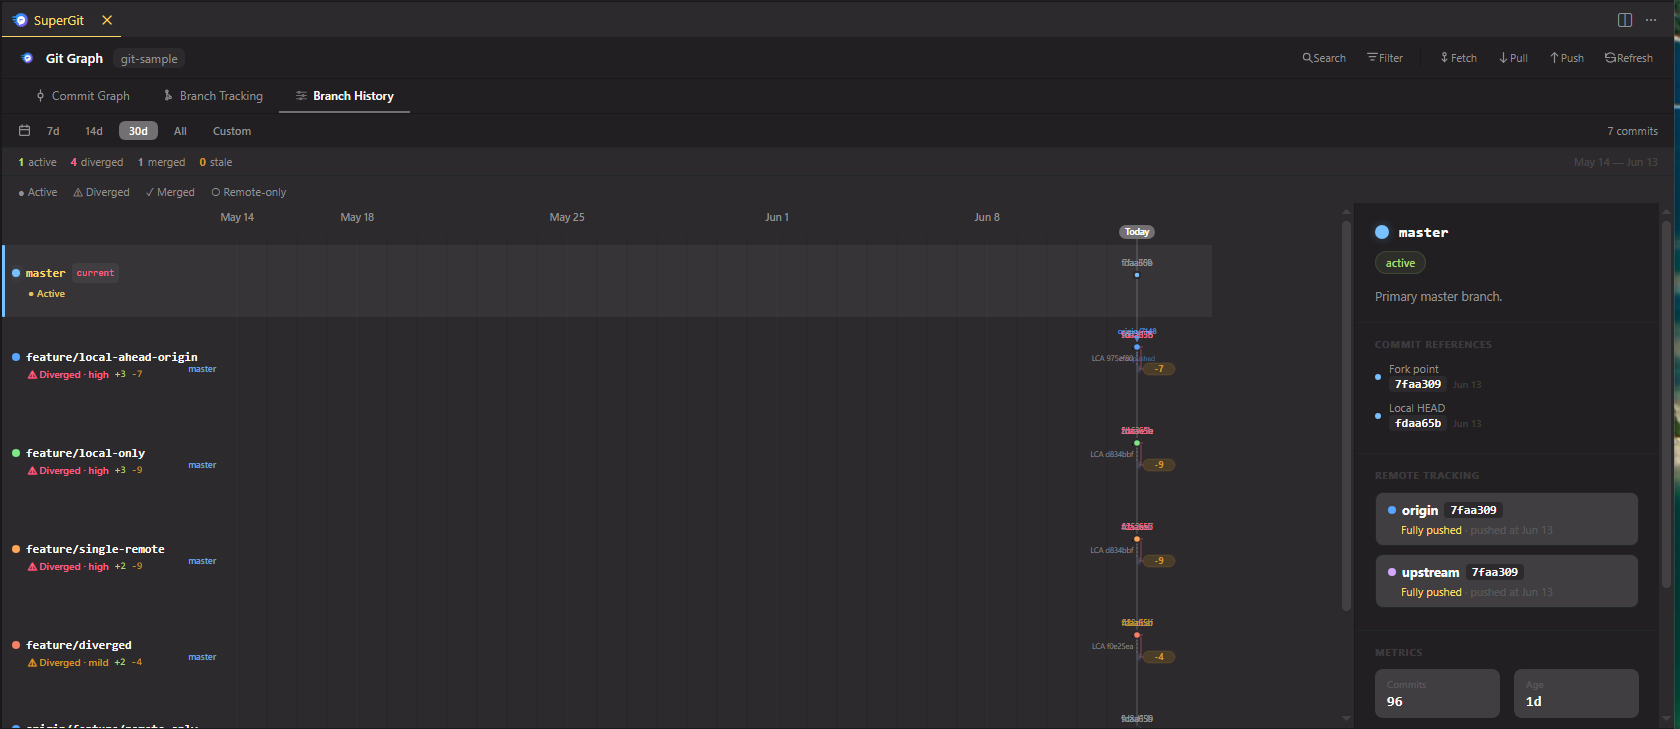
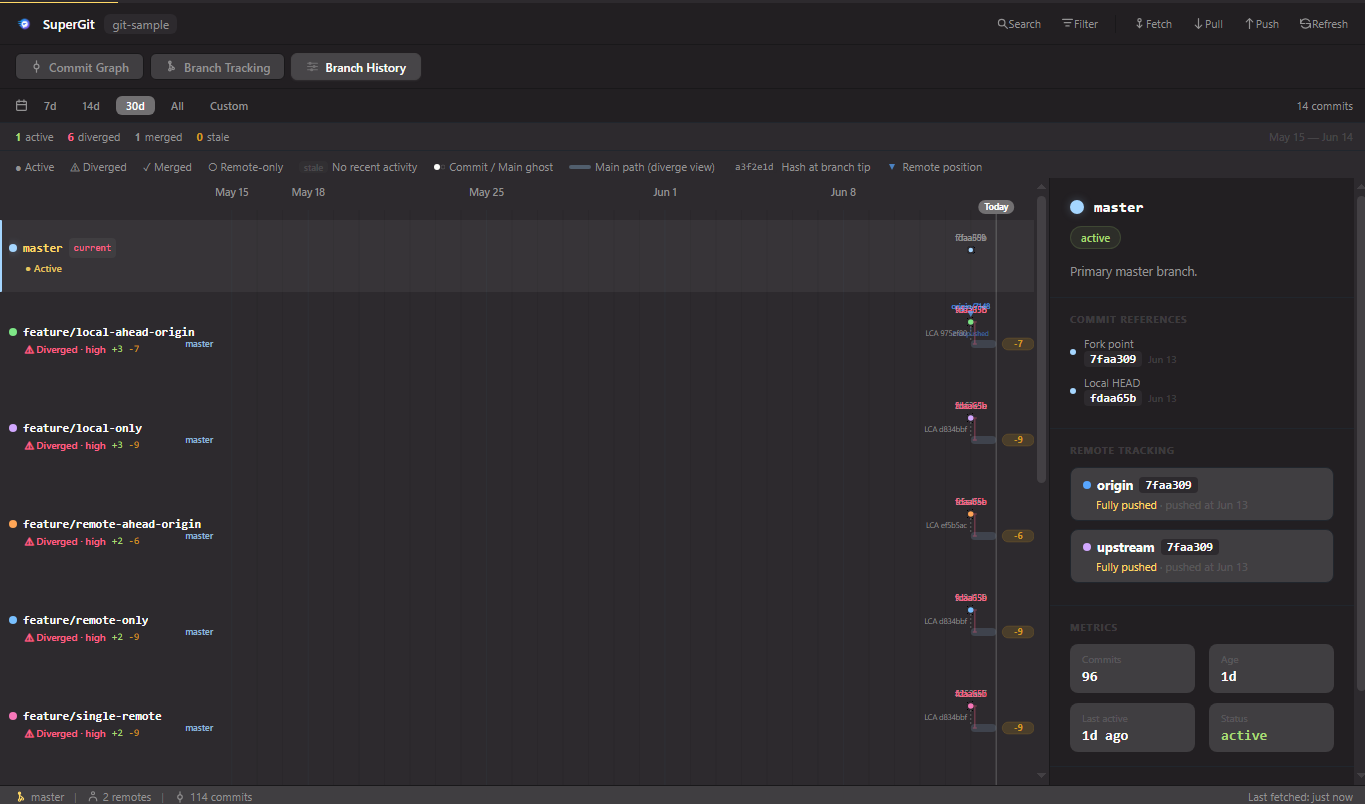
Add multi-remote QuickPick for set upstream and refresh screenshots.
Set upstream no longer uses manual remote/branch input; update README
captions, CHANGELOG, and feature PNGs for current UI.

diff --git a/src/test/unit/actions.test.ts b/src/test/unit/actions.test.ts
@@ -165,12 +165,12 @@ describe("executeBranchAction", () => {
       return ok("");
     });
     await executeBranchAction("/repo", "set-upstream");
-    expect(showInputBoxMock).toHaveBeenCalledWith(expect.objectContaining({ value: "origin/main" }));
+    expect(showInputBoxMock).not.toHaveBeenCalled();
+    expect(showQuickPickMock).not.toHaveBeenCalled();
     expect(runGitMock).toHaveBeenCalledWith(["branch", "--set-upstream-to", "origin/main", "main"], "/repo", { timeout: 120_000 });
   });
 
   it("pushes and sets upstream when the remote branch does not exist yet", async () => {
-    showInputBoxMock.mockResolvedValue("origin/feature/local-only");
     showWarningMessageMock.mockResolvedValue("Push and Set Upstream");
     runGitMock.mockImplementation(async (args) => {
       if (args[0] === "rev-parse" && args[1] === "--verify") {
@@ -182,11 +182,11 @@ describe("executeBranchAction", () => {
       return ok("");
     });
     await executeBranchAction("/repo", "set-upstream", "feature/local-only", "origin");
+    expect(showInputBoxMock).not.toHaveBeenCalled();
     expect(runGitMock).toHaveBeenCalledWith(["push", "-u", "origin", "feature/local-only"], "/repo", { timeout: 120_000 });
   });
 
   it("fetches and sets upstream when the remote branch exists but is not fetched locally", async () => {
-    showInputBoxMock.mockResolvedValue("origin/feature/x");
     showWarningMessageMock.mockResolvedValue("Fetch and Set Upstream");
     runGitMock.mockImplementation(async (args) => {
       if (args[0] === "rev-parse" && args[1] === "--verify") {
@@ -198,6 +198,7 @@ describe("executeBranchAction", () => {
       return ok("");
     });
     await executeBranchAction("/repo", "set-upstream", "feature/x", "origin");
+    expect(showInputBoxMock).not.toHaveBeenCalled();
     expect(runGitMock).toHaveBeenCalledWith(
       ["fetch", "origin", "refs/heads/feature/x:refs/remotes/origin/feature/x"],
       "/repo",
@@ -206,12 +207,11 @@ describe("executeBranchAction", () => {
     expect(runGitMock).toHaveBeenCalledWith(["branch", "--set-upstream-to", "origin/feature/x", "feature/x"], "/repo", { timeout: 120_000 });
   });
 
-  it("parses slash remotes when fetching and setting upstream", async () => {
+  it("supports slash remotes when fetching and setting upstream", async () => {
     getRemotesMock.mockResolvedValue([
       { name: "foo", url: "foo-url", colorIndex: 0 },
       { name: "foo/bar", url: "foo-bar-url", colorIndex: 1 }
     ]);
-    showInputBoxMock.mockResolvedValue("foo/bar/main");
     showWarningMessageMock.mockResolvedValue("Fetch and Set Upstream");
     runGitMock.mockImplementation(async (args) => {
       if (args[0] === "rev-parse" && args[1] === "--verify") {
@@ -224,6 +224,7 @@ describe("executeBranchAction", () => {
       return ok("");
     });
     await executeBranchAction("/repo", "set-upstream", "work", "foo/bar", "main");
+    expect(showInputBoxMock).not.toHaveBeenCalled();
     expect(runGitMock).toHaveBeenCalledWith(
       ["fetch", "foo/bar", "refs/heads/main:refs/remotes/foo/bar/main"],
       "/repo",
@@ -233,7 +234,6 @@ describe("executeBranchAction", () => {
   });
 
   it("uses explicit remote branch names when pushing and setting upstream", async () => {
-    showInputBoxMock.mockResolvedValue("origin/feature/a");
     showWarningMessageMock.mockResolvedValue("Push and Set Upstream");
     runGitMock.mockImplementation(async (args) => {
       if (args[0] === "rev-parse" && args[1] === "--verify") {
@@ -245,11 +245,58 @@ describe("executeBranchAction", () => {
       return ok("");
     });
     await executeBranchAction("/repo", "set-upstream", "work", "origin", "feature/a");
+    expect(showInputBoxMock).not.toHaveBeenCalled();
     expect(runGitMock).toHaveBeenCalledWith(["push", "-u", "origin", "work:feature/a"], "/repo", { timeout: 120_000 });
   });
 
-  it("cancels set upstream without input", async () => {
-    showInputBoxMock.mockResolvedValue(undefined);
+  it("shows QuickPick when setting upstream with multiple remotes and no remote param", async () => {
+    getRemotesMock.mockResolvedValue([
+      { name: "origin", url: "origin-url", colorIndex: 0 },
+      { name: "upstream", url: "upstream-url", colorIndex: 1 }
+    ]);
+    showQuickPickMock.mockResolvedValue({ label: "upstream", description: "upstream-url", remote: { name: "upstream", url: "upstream-url", colorIndex: 1 } });
+    showWarningMessageMock.mockResolvedValue("Push and Set Upstream");
+    runGitMock.mockImplementation(async (args) => {
+      if (args[0] === "rev-parse" && args[1] === "--verify") {
+        return fail("unknown ref");
+      }
+      if (args[0] === "ls-remote") {
+        return ok("");
+      }
+      return ok("");
+    });
+    await executeBranchAction("/repo", "set-upstream", "main");
+    expect(showQuickPickMock).toHaveBeenCalledWith(expect.any(Array), expect.objectContaining({ title: "Set Upstream" }));
+    expect(showInputBoxMock).not.toHaveBeenCalled();
+    expect(runGitMock).toHaveBeenCalledWith(["push", "-u", "upstream", "main"], "/repo", { timeout: 120_000 });
+  });
+
+  it("skips QuickPick when setting upstream with explicit remote param", async () => {
+    getRemotesMock.mockResolvedValue([
+      { name: "origin", url: "origin-url", colorIndex: 0 },
+      { name: "upstream", url: "upstream-url", colorIndex: 1 }
+    ]);
+    showWarningMessageMock.mockResolvedValue("Push and Set Upstream");
+    runGitMock.mockImplementation(async (args) => {
+      if (args[0] === "rev-parse" && args[1] === "--verify") {
+        return fail("unknown ref");
+      }
+      if (args[0] === "ls-remote") {
+        return ok("");
+      }
+      return ok("");
+    });
+    await executeBranchAction("/repo", "set-upstream", "main", "origin");
+    expect(showQuickPickMock).not.toHaveBeenCalled();
+    expect(runGitMock).toHaveBeenCalledWith(["push", "-u", "origin", "main"], "/repo", { timeout: 120_000 });
+  });
+
+  it("cancels set upstream when remote pick is dismissed", async () => {
+    getRemotesMock.mockResolvedValue([
+      { name: "origin", url: "origin-url", colorIndex: 0 },
+      { name: "upstream", url: "upstream-url", colorIndex: 1 }
+    ]);
+    showQuickPickMock.mockResolvedValue(undefined);
     await expect(executeBranchAction("/repo", "set-upstream", "main")).resolves.toEqual({ success: false, message: "Set upstream cancelled." });
     expect(runGitMock).not.toHaveBeenCalled();
   });

diff --git a/src/git/actions.ts b/src/git/actions.ts
@@ -3,7 +3,6 @@ import type { BranchAction, CommitAction, RemoteConfig } from "../shared/types";
 import { isBranchMergedInto, resolveDefaultBranch } from "./branch-lifecycle";
 import { resolveRemoteDefaultBranch } from "./remote-default";
 import { getCurrentBranch, getRemotes, unsetStaleUpstreamLinks } from "./commands";
-import { parseUpstreamRef } from "./parser";
 import { runGit } from "./runner";
 
 export interface ActionResult {
@@ -363,21 +362,22 @@ async function executeSetUpstream(
   }
 
   const remotes = await getRemotes(cwd);
-  const defaultRemote = remote || remotes[0]?.name || "origin";
-  const defaultRemoteBranch = resolveRemoteBranchName(branch, remoteBranchName);
-  const upstream = await vscode.window.showInputBox({
+  const remoteChoice = await resolveRemoteChoice(cwd, remote, {
     title: "Set Upstream",
-    prompt: `Remote tracking ref for ${branch}`,
-    value: `${defaultRemote}/${defaultRemoteBranch}`
+    includeAll: false
   });
-  if (!upstream) {
+  if (remoteChoice.cancelled) {
     return { success: false, message: "Set upstream cancelled." };
   }
 
-  const parsed = parseUpstreamRef(upstream.trim(), remotes.map((candidate) => candidate.name));
-  if (!parsed) {
-    return { success: false, message: "Upstream must look like remote/branch (for example origin/main)." };
+  const chosenRemote = remoteChoice.remote ?? remotes[0]?.name;
+  if (!chosenRemote) {
+    return { success: false, message: "No remote configured." };
   }
+
+  const remoteBranch = resolveRemoteBranchName(branch, remoteBranchName);
+  const upstream = formatRemoteRef(chosenRemote, remoteBranch);
+  const parsed = { remote: chosenRemote, branch: remoteBranch };
 
   const remoteRef = formatRemoteRef(parsed.remote, parsed.branch);
   const hasLocalTrackingRef = await localRemoteTrackingRefExists(cwd, parsed.remote, parsed.branch);

diff --git a/README.md b/README.md
@@ -6,25 +6,25 @@ SuperGit is a VS Code extension for visual Git history and branch-to-remote trac
 
 ### Commit Graph
 
-![SuperGit commit graph with swimlane lanes, author/date/hash columns, and commit detail panel](assets/CommitGraph.png)
+![SuperGit commit graph with topology swimlanes, branch sidebar, author/date/hash columns, and commit detail panel](assets/CommitGraph.png)
 
 ### Branch Tracking
 
-![SuperGit branch tracking with multi-remote ahead/behind status and contextual quick actions](assets/BranchTracking.png)
+![SuperGit branch tracking with origin and upstream remotes, default-branch badges, and contextual quick actions](assets/BranchTracking.png)
 
 ### Branch History
 
-![SuperGit branch history timeline with diverged lanes, ghost tracks, and branch detail panel](assets/BranchHistory.png)
+![SuperGit branch history with responsive timeline, diverged ghost tracks, enhanced legend, and Last active metrics](assets/BranchHistory.png)
 
 ## Features
 
 - Commit graph with topology swimlanes, merge nodes, refs, tags, author/date/hash columns, and commit detail panel.
-- Branch history timeline: per-branch lanes, divergence ghost tracks, remote push markers, and contextual actions.
+- Branch history timeline: per-branch lanes, responsive day columns (no horizontal scroll), divergence ghost tracks, remote push markers, and contextual actions.
 - Date range filters for 7 days, 14 days, 30 days, All, and custom ranges.
 - Search by commit message, hash, author, branch refs, and tags.
-- Branch tracking view for local branches across multiple remotes.
+- Branch tracking view for local branches across multiple remotes with default-branch indicators.
 - Ahead/behind badges, synced state, and no-upstream indicators.
-- Quick actions for fetch, pull, push, set upstream, and prune stale refs.
+- Quick actions for fetch, pull, push, set upstream (multi-remote QuickPick), and prune stale refs.
 - Commit actions for checkout, cherry-pick, revert, create branch, create tag, and copy hash.
 - Bottom status-bar entry: `$(git-commit) SuperGit`.
 
@@ -121,7 +121,7 @@ where `<version>` is the `"version"` field in `package.json`.
 Current local verification:
 
 - TypeScript typecheck passes.
-- Unit tests pass: 118 tests.
+- Unit tests pass: 171 tests.
 - Coverage passes the design target for `src/git/*.ts`.
 - VSIX packaging passes and includes `CHANGELOG.md`, `README.md`, `LICENSE`, `assets/icon.png`, `assets/logo.png`, `assets/CommitGraph.png`, `assets/BranchTracking.png`, `assets/BranchHistory.png`, bundled extension/webview JavaScript, and CSS.
 

diff --git a/CHANGELOG.md b/CHANGELOG.md
@@ -8,12 +8,16 @@
 - **Prune Stale** clears broken upstream links after fetch/prune (with confirmation); shows which branches were updated.
 - Remote default-branch resolution and caching (`remote-default.ts`); delete-remote guard blocks remote default branches.
 - Refresh coordination rules and managed-refresh guard (`supergit-refresh-coordination.mdc`).
+- Branch History responsive timeline (`timelineLayout.ts`, `useTimelineLayout.ts`): `ResizeObserver` scales day columns to panel width.
 
 ### Changed
 
 - Branch Tracking table uses fixed column widths (228 / 170 / 272px) so rows do not stretch across the panel.
 - Title-bar Refresh fetches and prunes only — upstream cleanup is explicit via **Prune Stale**, not silent on Refresh.
 - After branch actions, reload commits for **fetch**, **prune-stale**, and **delete-remote** (graph and history stay in sync).
+- Branch History timeline fits the panel (no horizontal scrollbar); smart hiding for hash labels and remote markers at narrow widths.
+- **Set upstream** / **Push and Set Upstream** use extension-host QuickPick when multiple remotes are configured (no manual `remote/branch` input).
+- README screenshots updated for Commit Graph, Branch Tracking, and Branch History.
 
 ### Fixed
 
@@ -27,7 +31,7 @@
 ### Verified
 
 - `npm run typecheck`
-- `npm run test:coverage` (157 tests)
+- `npm run test:coverage` (171 tests)
 - `npm run build`
 - `npm run package`
 